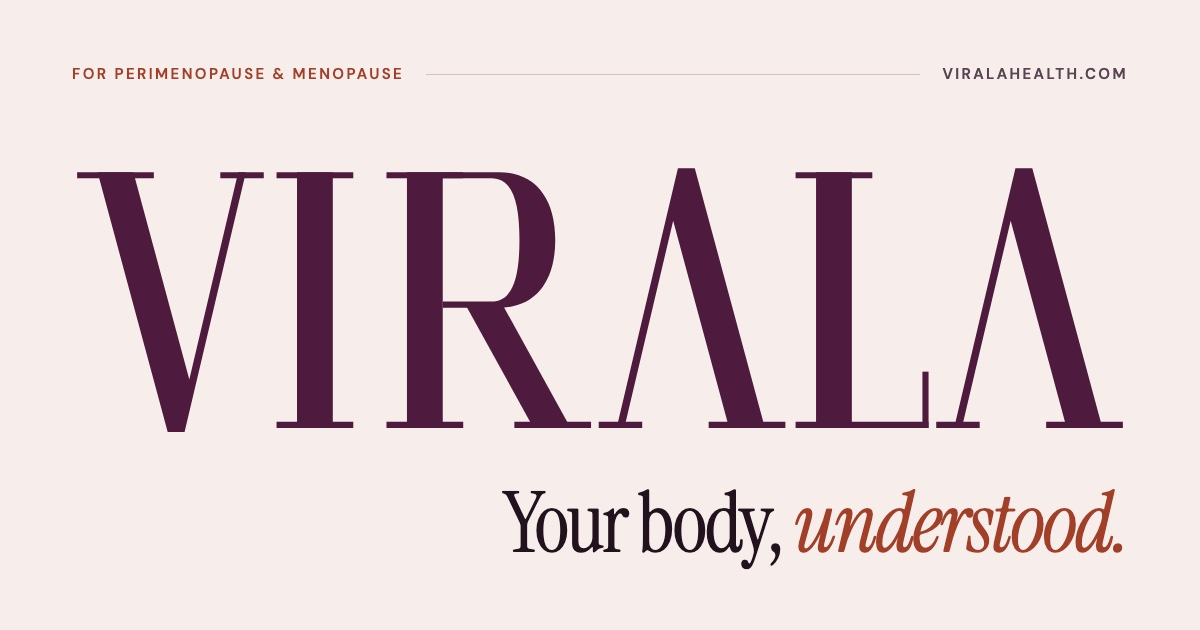
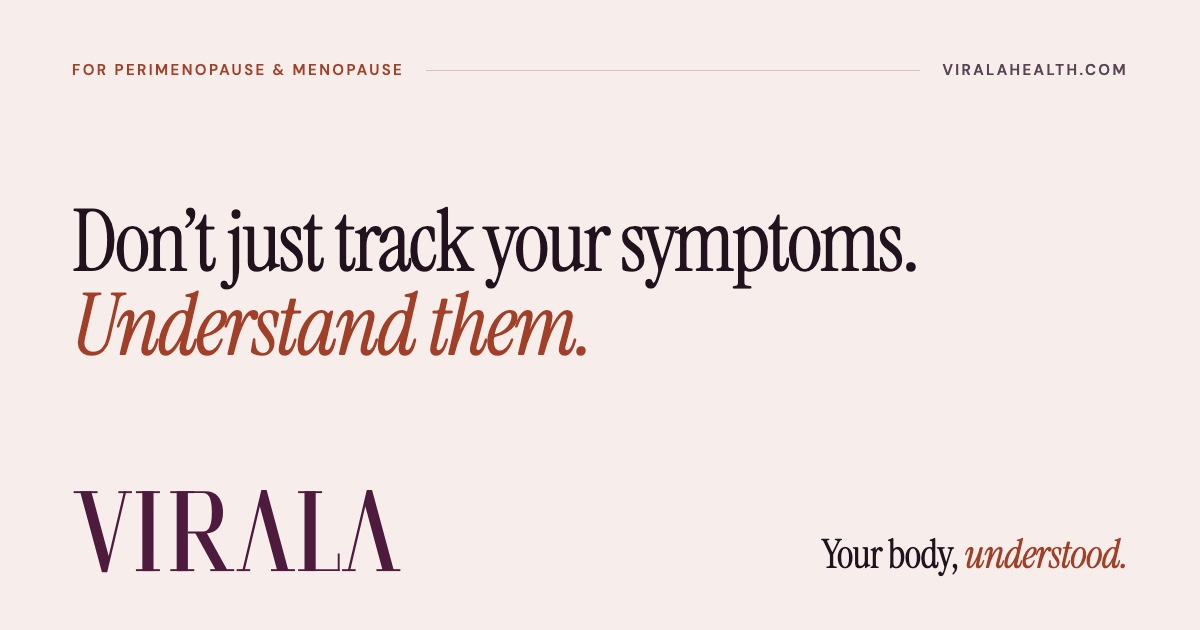
Website: outward positioning 'Don't just track your symptoms. Understand them.' (not deployed; branch only)
Hero under the brand line, meta descriptions, approach section, About intro and social card
aligned; thanks page spam/Promotions line. Everything else unchanged. Built from local
workspace commit 8158fac.

diff --git a/index.html b/index.html
@@ -1,13 +1,13 @@
 <!doctype html>
 <html lang="en"><head><meta charset="utf-8"><meta name="viewport" content="width=device-width,initial-scale=1,viewport-fit=cover">
 <meta name="color-scheme" content="light"><meta name="theme-color" content="#F7EDEA"><script>try{if(localStorage.getItem('virala-theme')==='dark')document.documentElement.dataset.theme='dark'}catch(e){}</script>
-<title>VIRALA — Your body, understood.</title><meta name="description" content="VIRALA is a companion app being made for perimenopause and menopause. It understands, then helps: science-backed explanations and safe, practical steps that grow more personal over time. Join the email list to hear first.">
+<title>VIRALA — Your body, understood.</title><meta name="description" content="Don’t just track your symptoms. Understand them. VIRALA is a companion app being made for perimenopause and menopause: science-backed understanding, concrete help with what to do, and a routine that adapts to what works for you.">
 <meta name="robots" content="index,follow">
 <link rel="canonical" href="https://viralahealth.com/"><link rel="icon" type="image/svg+xml" href="assets/favicon.svg"><link rel="apple-touch-icon" href="assets/apple-touch-icon.png"><link rel="manifest" href="site.webmanifest">
-<meta property="og:type" content="website"><meta property="og:site_name" content="VIRALA"><meta property="og:title" content="VIRALA — Your body, understood."><meta property="og:description" content="VIRALA is a companion app being made for perimenopause and menopause. It understands, then helps: science-backed explanations and safe, practical steps that grow more personal over time. Join the email list to hear first."><meta property="og:url" content="https://viralahealth.com/"><meta property="og:image" content="https://viralahealth.com/assets/social-card.jpg"><meta property="og:image:alt" content="VIRALA. Your body, understood."><meta name="twitter:card" content="summary_large_image">
+<meta property="og:type" content="website"><meta property="og:site_name" content="VIRALA"><meta property="og:title" content="VIRALA — Your body, understood."><meta property="og:description" content="Don’t just track your symptoms. Understand them. VIRALA is a companion app being made for perimenopause and menopause: science-backed understanding, concrete help with what to do, and a routine that adapts to what works for you."><meta property="og:url" content="https://viralahealth.com/"><meta property="og:image" content="https://viralahealth.com/assets/social-card.jpg"><meta property="og:image:alt" content="Don’t just track your symptoms. Understand them. VIRALA: your body, understood."><meta name="twitter:card" content="summary_large_image">
 <link rel="preload" href="assets/instrument-serif.ttf" as="font" type="font/ttf" crossorigin><link rel="preload" href="assets/dm-sans.ttf" as="font" type="font/ttf" crossorigin>
 <link rel="stylesheet" href="styles.css"><script src="app.js" defer></script>
-<script type="application/ld+json">{"@context": "https://schema.org", "@type": "WebPage", "name": "VIRALA — Your body, understood.", "url": "https://viralahealth.com/", "description": "VIRALA is a companion app being made for perimenopause and menopause. It understands, then helps: science-backed explanations and safe, practical steps that grow more personal over time. Join the email list to hear first.", "inLanguage": "en", "isPartOf": {"@type": "WebSite", "name": "VIRALA", "url": "https://viralahealth.com/"}}</script></head>
+<script type="application/ld+json">{"@context": "https://schema.org", "@type": "WebPage", "name": "VIRALA — Your body, understood.", "url": "https://viralahealth.com/", "description": "Don’t just track your symptoms. Understand them. VIRALA is a companion app being made for perimenopause and menopause: science-backed understanding, concrete help with what to do, and a routine that adapts to what works for you.", "inLanguage": "en", "isPartOf": {"@type": "WebSite", "name": "VIRALA", "url": "https://viralahealth.com/"}}</script></head>
 <body class="page-index"><a class="skip" href="#main">Skip to content</a>
 <header class="site-header"><div class="wrap header-inner">
 <a class="brand" href="index.html" aria-label="VIRALA, home"><span class="lockup"><svg class="mark" viewBox="0 0 544 736" aria-hidden="true" focusable="false"><path class="p1" d="M0 48 C60 108 158 132 202 174 C234 204 242 224 242 274 L242 608 C242 665 249 695 272 736 C218 680 122 633 60 595 C20 570 0 537 0 492 Z"/><path class="p2" d="M136 0 C196 51 252 78 322 113 C369 137 390 167 390 220 L390 482 C390 570 368 610 316 661 L276 704 C264 664 268 625 268 588 L268 270 C268 204 233 168 187 142 L136 114 Z"/><path class="p3" d="M416 244 L506 291 C535 307 544 325 544 355 L544 503 C544 540 529 560 495 578 L326 668 C390 602 416 556 416 484 Z"/></svg><svg class="wm" aria-hidden="true" focusable="false" viewBox="-2 -4 422.9 108"><g fill="currentColor"><g transform="translate(0.00 0)"><path d="M8.00 0.00 L23.50 0.00 L44.58 78.06 L63.00 0.00 L68.80 0.00 L44.82 101.60 L35.43 101.60 Z"/><path d="M0.00 0.00 L31.50 0.00 L31.50 5.20 L0.00 5.20 Z"/><path d="M56.00 0.00 L75.80 0.00 L75.80 5.20 L56.00 5.20 Z"/></g><g transform="translate(80.80 0)"><path d="M8.00 0.00 L23.50 0.00 L23.50 100.00 L8.00 100.00 Z"/><path d="M0.00 0.00 L31.50 0.00 L31.50 5.20 L0.00 5.20 Z"/><path d="M0.00 94.80 L31.50 94.80 L31.50 100.00 L0.00 100.00 Z"/></g><g transform="translate(125.30 0)"><path d="M8.00 0.00 L23.50 0.00 L23.50 100.00 L8.00 100.00 Z"/><path d="M23.5 0 L44 0 C58 0 66 10 66 26.5 C66 43 58 53 44 53 L23.5 53 L23.5 47.8 L41 47.8 C49 47.8 52 42 52 26.5 C52 11 49 5.2 41 5.2 L23.5 5.2 Z"/><path d="M31.00 52.00 L45.50 52.00 L72.00 100.00 L57.50 100.00 Z"/><path d="M0.00 0.00 L31.50 0.00 L31.50 5.20 L0.00 5.20 Z"/><path d="M0.00 94.80 L31.50 94.80 L31.50 100.00 L0.00 100.00 Z"/><path d="M50.00 94.80 L80.00 94.80 L80.00 100.00 L50.00 100.00 Z"/></g><g transform="translate(208.30 0)"><path d="M67.80 100.00 L52.30 100.00 L31.22 21.94 L12.80 100.00 L7.00 100.00 L30.98 -1.60 L40.37 -1.60 Z"/><path d="M75.80 100.00 L44.30 100.00 L44.30 94.80 L75.80 94.80 Z"/><path d="M19.80 100.00 L0.00 100.00 L0.00 94.80 L19.80 94.80 Z"/></g><g transform="translate(288.10 0)"><path d="M8.00 0.00 L23.50 0.00 L23.50 100.00 L8.00 100.00 Z"/><path d="M0.00 0.00 L31.50 0.00 L31.50 5.20 L0.00 5.20 Z"/><path d="M0.00 94.80 L52.00 94.80 L52.00 100.00 L0.00 100.00 Z"/><path d="M46.80 100.00 L46.80 78.00 L52.00 78.00 L52.00 100.00 Z"/></g><g transform="translate(343.10 0)"><path d="M67.80 100.00 L52.30 100.00 L31.22 21.94 L12.80 100.00 L7.00 100.00 L30.98 -1.60 L40.37 -1.60 Z"/><path d="M75.80 100.00 L44.30 100.00 L44.30 94.80 L75.80 94.80 Z"/><path d="M19.80 100.00 L0.00 100.00 L0.00 94.80 L19.80 94.80 Z"/></g></g></svg></span></a>
@@ -16,8 +16,9 @@
 </div></header><main id="main"><section class="hero" aria-labelledby="hero-title"><div class="wrap hero-grid">
 <div class="hero-copy">
 <p class="status-pill"><span class="pill-dot" aria-hidden="true"></span>The VIRALA app · in development</p>
-<h1 id="hero-title">Your body, <em>understood.</em></h1>
-<p class="lede">VIRALA is a companion app being made for early perimenopause, perimenopause and menopause, including when you’re not sure which stage you’re in. Share how you are in a quick check-in or in your own words. VIRALA will help you understand what’s happening, then suggest one or two safe, practical things you can do today.</p>
+<p class="brand-line">Your body, <em>understood.</em></p>
+<h1 id="hero-title">Don’t just track your symptoms. <em>Understand them.</em></h1>
+<p class="lede">VIRALA is a companion app being made for early perimenopause, perimenopause and menopause, including when you’re not sure which stage you’re in. Share how you are in a quick check-in or in your own words, and VIRALA will give you science-backed understanding of what’s happening, concrete help with what to do, and a routine that adapts to what works for you.</p>
 <div class="join" id="join"><form class="signup" action="https://app.kit.com/forms/10101242/subscriptions" method="post" accept-charset="UTF-8">
 <label class="signup-label" for="email-top">Be the first to hear when VIRALA is ready</label>
 <div class="signup-row"><input id="email-top" name="email_address" type="email" autocomplete="email" inputmode="email" autocapitalize="off" spellcheck="false" required placeholder="you@example.com" aria-describedby="note-top">
@@ -29,7 +30,7 @@
 <p class="plate-line">Understands,<br><em>then helps.</em></p></div></div>
 </div></section>
 <section class="approach wrap" aria-labelledby="approach-title"><div class="sec-head reveal"><p class="eyebrow">Our approach</p><h2 id="approach-title">Science-backed understanding. <em>Personal support that grows with you.</em></h2>
-<p class="lede">Checking in is the foundation. Understanding comes next, and it never stops there: every explanation will lead to something you can do today. Because VIRALA remembers what you choose to share, and what helped, its support grows more personal over time.</p></div>
+<p class="lede">VIRALA isn’t another symptom tracker. Checking in is only the start: what you share will become science-backed understanding of what’s happening, concrete help with what to do today, and a routine that adapts to what works for you. Because VIRALA remembers what you choose to share, and what helped, its support grows more personal over time.</p></div>
 <ol class="gifts gifts-3"><li class="reveal"><span class="gift-n">01</span><h3>Share it your way</h3><p>A quick check-in when you have a moment, or your own words when there’s more to say. You won’t need the right medical vocabulary.</p></li><li class="reveal"><span class="gift-n">02</span><h3>Understand, then act</h3><p>Every explanation will end in one or two concrete, safe things you can do today, chosen for where you are rather than generic advice.</p></li><li class="reveal"><span class="gift-n">03</span><h3>Support that learns what works</h3><p>VIRALA will remember what you choose to share and what helped, so its support grows more personal over time, and only with your yes.</p></li></ol></section>
 <section class="offer wrap" aria-labelledby="offer-title"><div class="sec-head reveal"><p class="eyebrow">What we’re building</p><h2 id="offer-title">Free to understand and act. <em>More, when you want it.</em></h2></div>
 <div class="offer-grid">

diff --git a/about.html b/about.html
@@ -1,20 +1,20 @@
 <!doctype html>
 <html lang="en"><head><meta charset="utf-8"><meta name="viewport" content="width=device-width,initial-scale=1,viewport-fit=cover">
 <meta name="color-scheme" content="light"><meta name="theme-color" content="#F7EDEA"><script>try{if(localStorage.getItem('virala-theme')==='dark')document.documentElement.dataset.theme='dark'}catch(e){}</script>
-<title>About — VIRALA</title><meta name="description" content="About VIRALA: what we believe, how we write, and answers to common questions. VIRALA understands, then helps.">
+<title>About — VIRALA</title><meta name="description" content="About VIRALA: not another tracker, but science-backed understanding, concrete help and a routine that adapts to you. What we believe, how we write, and common questions.">
 <meta name="robots" content="index,follow">
 <link rel="canonical" href="https://viralahealth.com/about.html"><link rel="icon" type="image/svg+xml" href="assets/favicon.svg"><link rel="apple-touch-icon" href="assets/apple-touch-icon.png"><link rel="manifest" href="site.webmanifest">
-<meta property="og:type" content="website"><meta property="og:site_name" content="VIRALA"><meta property="og:title" content="About — VIRALA"><meta property="og:description" content="About VIRALA: what we believe, how we write, and answers to common questions. VIRALA understands, then helps."><meta property="og:url" content="https://viralahealth.com/about.html"><meta property="og:image" content="https://viralahealth.com/assets/social-card.jpg"><meta property="og:image:alt" content="VIRALA. Your body, understood."><meta name="twitter:card" content="summary_large_image">
+<meta property="og:type" content="website"><meta property="og:site_name" content="VIRALA"><meta property="og:title" content="About — VIRALA"><meta property="og:description" content="About VIRALA: not another tracker, but science-backed understanding, concrete help and a routine that adapts to you. What we believe, how we write, and common questions."><meta property="og:url" content="https://viralahealth.com/about.html"><meta property="og:image" content="https://viralahealth.com/assets/social-card.jpg"><meta property="og:image:alt" content="Don’t just track your symptoms. Understand them. VIRALA: your body, understood."><meta name="twitter:card" content="summary_large_image">
 <link rel="preload" href="assets/instrument-serif.ttf" as="font" type="font/ttf" crossorigin><link rel="preload" href="assets/dm-sans.ttf" as="font" type="font/ttf" crossorigin>
 <link rel="stylesheet" href="styles.css"><script src="app.js" defer></script>
-<script type="application/ld+json">{"@context": "https://schema.org", "@type": "WebPage", "name": "About — VIRALA", "url": "https://viralahealth.com/about.html", "description": "About VIRALA: what we believe, how we write, and answers to common questions. VIRALA understands, then helps.", "inLanguage": "en", "isPartOf": {"@type": "WebSite", "name": "VIRALA", "url": "https://viralahealth.com/"}}</script></head>
+<script type="application/ld+json">{"@context": "https://schema.org", "@type": "WebPage", "name": "About — VIRALA", "url": "https://viralahealth.com/about.html", "description": "About VIRALA: not another tracker, but science-backed understanding, concrete help and a routine that adapts to you. What we believe, how we write, and common questions.", "inLanguage": "en", "isPartOf": {"@type": "WebSite", "name": "VIRALA", "url": "https://viralahealth.com/"}}</script></head>
 <body class="page-about"><a class="skip" href="#main">Skip to content</a>
 <header class="site-header"><div class="wrap header-inner">
 <a class="brand" href="index.html" aria-label="VIRALA, home"><span class="lockup"><svg class="mark" viewBox="0 0 544 736" aria-hidden="true" focusable="false"><path class="p1" d="M0 48 C60 108 158 132 202 174 C234 204 242 224 242 274 L242 608 C242 665 249 695 272 736 C218 680 122 633 60 595 C20 570 0 537 0 492 Z"/><path class="p2" d="M136 0 C196 51 252 78 322 113 C369 137 390 167 390 220 L390 482 C390 570 368 610 316 661 L276 704 C264 664 268 625 268 588 L268 270 C268 204 233 168 187 142 L136 114 Z"/><path class="p3" d="M416 244 L506 291 C535 307 544 325 544 355 L544 503 C544 540 529 560 495 578 L326 668 C390 602 416 556 416 484 Z"/></svg><svg class="wm" aria-hidden="true" focusable="false" viewBox="-2 -4 422.9 108"><g fill="currentColor"><g transform="translate(0.00 0)"><path d="M8.00 0.00 L23.50 0.00 L44.58 78.06 L63.00 0.00 L68.80 0.00 L44.82 101.60 L35.43 101.60 Z"/><path d="M0.00 0.00 L31.50 0.00 L31.50 5.20 L0.00 5.20 Z"/><path d="M56.00 0.00 L75.80 0.00 L75.80 5.20 L56.00 5.20 Z"/></g><g transform="translate(80.80 0)"><path d="M8.00 0.00 L23.50 0.00 L23.50 100.00 L8.00 100.00 Z"/><path d="M0.00 0.00 L31.50 0.00 L31.50 5.20 L0.00 5.20 Z"/><path d="M0.00 94.80 L31.50 94.80 L31.50 100.00 L0.00 100.00 Z"/></g><g transform="translate(125.30 0)"><path d="M8.00 0.00 L23.50 0.00 L23.50 100.00 L8.00 100.00 Z"/><path d="M23.5 0 L44 0 C58 0 66 10 66 26.5 C66 43 58 53 44 53 L23.5 53 L23.5 47.8 L41 47.8 C49 47.8 52 42 52 26.5 C52 11 49 5.2 41 5.2 L23.5 5.2 Z"/><path d="M31.00 52.00 L45.50 52.00 L72.00 100.00 L57.50 100.00 Z"/><path d="M0.00 0.00 L31.50 0.00 L31.50 5.20 L0.00 5.20 Z"/><path d="M0.00 94.80 L31.50 94.80 L31.50 100.00 L0.00 100.00 Z"/><path d="M50.00 94.80 L80.00 94.80 L80.00 100.00 L50.00 100.00 Z"/></g><g transform="translate(208.30 0)"><path d="M67.80 100.00 L52.30 100.00 L31.22 21.94 L12.80 100.00 L7.00 100.00 L30.98 -1.60 L40.37 -1.60 Z"/><path d="M75.80 100.00 L44.30 100.00 L44.30 94.80 L75.80 94.80 Z"/><path d="M19.80 100.00 L0.00 100.00 L0.00 94.80 L19.80 94.80 Z"/></g><g transform="translate(288.10 0)"><path d="M8.00 0.00 L23.50 0.00 L23.50 100.00 L8.00 100.00 Z"/><path d="M0.00 0.00 L31.50 0.00 L31.50 5.20 L0.00 5.20 Z"/><path d="M0.00 94.80 L52.00 94.80 L52.00 100.00 L0.00 100.00 Z"/><path d="M46.80 100.00 L46.80 78.00 L52.00 78.00 L52.00 100.00 Z"/></g><g transform="translate(343.10 0)"><path d="M67.80 100.00 L52.30 100.00 L31.22 21.94 L12.80 100.00 L7.00 100.00 L30.98 -1.60 L40.37 -1.60 Z"/><path d="M75.80 100.00 L44.30 100.00 L44.30 94.80 L75.80 94.80 Z"/><path d="M19.80 100.00 L0.00 100.00 L0.00 94.80 L19.80 94.80 Z"/></g></g></svg></span></a>
 <nav class="main-nav" id="main-nav" aria-label="Main"><a href="vira.html">Meet Vira</a><a href="journal.html">Journal</a><a href="about.html" aria-current="page">About</a><a class="nav-join" href="index.html#join">Join the list</a></nav>
 <div class="header-tools"><button class="theme-toggle" type="button" aria-pressed="false" aria-label="Dark appearance"><svg viewBox="0 0 24 24" aria-hidden="true"><circle cx="12" cy="12" r="8"/><path d="M12 4a8 8 0 0 0 0 16Z"/></svg></button><button class="menu-toggle" type="button" aria-controls="main-nav" aria-expanded="false"><span>Menu</span></button></div>
 </div></header><main id="main"><section class="page-hero wrap"><p class="mh-eyebrow"><span>About VIRALA</span><span class="mh-rule" aria-hidden="true"></span><span>Beliefs · How we write · Questions</span></p><h1>Made to understand you, <em>and to help.</em></h1>
-<p class="lede">VIRALA is being built independently, as a more personal, science-backed way to understand your body through perimenopause and menopause, and to know what to do next.</p></section>
+<p class="lede">VIRALA isn’t another tracker. It’s being built independently to give women science-backed understanding of perimenopause and menopause, concrete help with what to do, and a routine that adapts to what works for them.</p></section>
 <section class="beliefs wrap" id="philosophy" aria-labelledby="beliefs-title"><div class="beliefs-head reveal"><p class="eyebrow">What we believe</p><h2 id="beliefs-title">Understanding is the point.<br><em>Help is the outcome.</em></h2>
 <p class="pull">VIRALA should give back more than it asks of you — no perfect tracking, no guilt for gaps.</p></div>
 <ol class="gifts gifts-2 reveal"><li><span class="gift-n">01</span><h3>Heard, including the detail.</h3><p>You should be understood from what you actually say: the detail, not just a symptom keyword. A restless night, a hard week and a question you can’t quite phrase all count.</p></li><li><span class="gift-n">02</span><h3>Honest about what science can explain.</h3><p>Science-backed means showing what reliable evidence can and can’t tell you, and considering other possibilities instead of blaming everything on hormones.</p></li><li><span class="gift-n">03</span><h3>Understanding that leads somewhere.</h3><p>Small, feasible next steps you choose, shaped by what you’ve already tried and what fits your real life.</p></li><li><span class="gift-n">04</span><h3>Remembered, under your control.</h3><p>What you’ve confirmed, tried, rejected and changed, kept only as you allow, and always yours to correct or delete.</p></li></ol></section>

diff --git a/thanks.html b/thanks.html
@@ -4,7 +4,7 @@
 <title>One last step — VIRALA</title><meta name="description" content="Thank you for joining the VIRALA email list. Please confirm your address from the email we’ve sent you.">
 <meta name="robots" content="noindex,follow">
 <link rel="canonical" href="https://viralahealth.com/thanks.html"><link rel="icon" type="image/svg+xml" href="assets/favicon.svg"><link rel="apple-touch-icon" href="assets/apple-touch-icon.png"><link rel="manifest" href="site.webmanifest">
-<meta property="og:type" content="website"><meta property="og:site_name" content="VIRALA"><meta property="og:title" content="One last step — VIRALA"><meta property="og:description" content="Thank you for joining the VIRALA email list. Please confirm your address from the email we’ve sent you."><meta property="og:url" content="https://viralahealth.com/thanks.html"><meta property="og:image" content="https://viralahealth.com/assets/social-card.jpg"><meta property="og:image:alt" content="VIRALA. Your body, understood."><meta name="twitter:card" content="summary_large_image">
+<meta property="og:type" content="website"><meta property="og:site_name" content="VIRALA"><meta property="og:title" content="One last step — VIRALA"><meta property="og:description" content="Thank you for joining the VIRALA email list. Please confirm your address from the email we’ve sent you."><meta property="og:url" content="https://viralahealth.com/thanks.html"><meta property="og:image" content="https://viralahealth.com/assets/social-card.jpg"><meta property="og:image:alt" content="Don’t just track your symptoms. Understand them. VIRALA: your body, understood."><meta name="twitter:card" content="summary_large_image">
 <link rel="preload" href="assets/instrument-serif.ttf" as="font" type="font/ttf" crossorigin><link rel="preload" href="assets/dm-sans.ttf" as="font" type="font/ttf" crossorigin>
 <link rel="stylesheet" href="styles.css"><script src="app.js" defer></script>
 <script type="application/ld+json">{"@context": "https://schema.org", "@type": "WebPage", "name": "One last step — VIRALA", "url": "https://viralahealth.com/thanks.html", "description": "Thank you for joining the VIRALA email list. Please confirm your address from the email we’ve sent you.", "inLanguage": "en", "isPartOf": {"@type": "WebSite", "name": "VIRALA", "url": "https://viralahealth.com/"}}</script></head>
@@ -15,7 +15,7 @@
 <div class="header-tools"><button class="theme-toggle" type="button" aria-pressed="false" aria-label="Dark appearance"><svg viewBox="0 0 24 24" aria-hidden="true"><circle cx="12" cy="12" r="8"/><path d="M12 4a8 8 0 0 0 0 16Z"/></svg></button><button class="menu-toggle" type="button" aria-controls="main-nav" aria-expanded="false"><span>Menu</span></button></div>
 </div></header><main id="main"><section class="thanks wrap" aria-labelledby="thanks-title"><svg class="mark mark-thanks" viewBox="0 0 544 736" aria-hidden="true" focusable="false"><path class="p1" d="M0 48 C60 108 158 132 202 174 C234 204 242 224 242 274 L242 608 C242 665 249 695 272 736 C218 680 122 633 60 595 C20 570 0 537 0 492 Z"/><path class="p2" d="M136 0 C196 51 252 78 322 113 C369 137 390 167 390 220 L390 482 C390 570 368 610 316 661 L276 704 C264 664 268 625 268 588 L268 270 C268 204 233 168 187 142 L136 114 Z"/><path class="p3" d="M416 244 L506 291 C535 307 544 325 544 355 L544 503 C544 540 529 560 495 578 L326 668 C390 602 416 556 416 484 Z"/></svg>
 <h1 id="thanks-title">One last <em>step.</em></h1>
-<p class="lede">Check your inbox and confirm your address, and you’re on the list. Can’t find it? Look in spam or promotions.</p>
+<p class="lede">Check your inbox and confirm your address, and you’re on the list. Can’t find it? Check your spam folder, or the Promotions tab if you use Gmail.</p>
 <div class="thanks-ig"><p class="eyebrow">While you wait</p><h2>Follow the journey <em>on Instagram.</em></h2>
 <p>Notes from the making of VIRALA, and a closer look at what we’re building.</p>
 <a class="button button-ig" href="https://www.instagram.com/viralahealth/" rel="noopener noreferrer"><svg class="ig" viewBox="0 0 24 24" aria-hidden="true" focusable="false"><rect x="3" y="3" width="18" height="18" rx="5.5"/><circle cx="12" cy="12" r="4.2"/><circle cx="17.4" cy="6.6" r="1.1" class="ig-dot"/></svg><span>Follow @viralahealth</span> <span class="arrow" aria-hidden="true">↗</span><span class="visually-hidden"> (opens Instagram)</span></a></div>

diff --git a/vira.html b/vira.html
@@ -4,7 +4,7 @@
 <title>Meet Vira — VIRALA</title><meta name="description" content="Vira will be the personal AI companion inside VIRALA Premium, in development. She understands, then helps: safe, practical steps for today and support that adapts over time.">
 <meta name="robots" content="index,follow">
 <link rel="canonical" href="https://viralahealth.com/vira.html"><link rel="icon" type="image/svg+xml" href="assets/favicon.svg"><link rel="apple-touch-icon" href="assets/apple-touch-icon.png"><link rel="manifest" href="site.webmanifest">
-<meta property="og:type" content="website"><meta property="og:site_name" content="VIRALA"><meta property="og:title" content="Meet Vira — VIRALA"><meta property="og:description" content="Vira will be the personal AI companion inside VIRALA Premium, in development. She understands, then helps: safe, practical steps for today and support that adapts over time."><meta property="og:url" content="https://viralahealth.com/vira.html"><meta property="og:image" content="https://viralahealth.com/assets/social-card.jpg"><meta property="og:image:alt" content="VIRALA. Your body, understood."><meta name="twitter:card" content="summary_large_image">
+<meta property="og:type" content="website"><meta property="og:site_name" content="VIRALA"><meta property="og:title" content="Meet Vira — VIRALA"><meta property="og:description" content="Vira will be the personal AI companion inside VIRALA Premium, in development. She understands, then helps: safe, practical steps for today and support that adapts over time."><meta property="og:url" content="https://viralahealth.com/vira.html"><meta property="og:image" content="https://viralahealth.com/assets/social-card.jpg"><meta property="og:image:alt" content="Don’t just track your symptoms. Understand them. VIRALA: your body, understood."><meta name="twitter:card" content="summary_large_image">
 <link rel="preload" href="assets/instrument-serif.ttf" as="font" type="font/ttf" crossorigin><link rel="preload" href="assets/dm-sans.ttf" as="font" type="font/ttf" crossorigin>
 <link rel="stylesheet" href="styles.css"><script src="app.js" defer></script>
 <script type="application/ld+json">{"@context": "https://schema.org", "@type": "WebPage", "name": "Meet Vira — VIRALA", "url": "https://viralahealth.com/vira.html", "description": "Vira will be the personal AI companion inside VIRALA Premium, in development. She understands, then helps: safe, practical steps for today and support that adapts over time.", "inLanguage": "en", "isPartOf": {"@type": "WebSite", "name": "VIRALA", "url": "https://viralahealth.com/"}}</script></head>

diff --git a/journal.html b/journal.html
@@ -4,7 +4,7 @@
 <title>The Journal — VIRALA</title><meta name="description" content="Science-backed reading about perimenopause and menopause that helps you understand what’s happening and what you can do about it.">
 <meta name="robots" content="index,follow">
 <link rel="canonical" href="https://viralahealth.com/journal.html"><link rel="icon" type="image/svg+xml" href="assets/favicon.svg"><link rel="apple-touch-icon" href="assets/apple-touch-icon.png"><link rel="manifest" href="site.webmanifest">
-<meta property="og:type" content="website"><meta property="og:site_name" content="VIRALA"><meta property="og:title" content="The Journal — VIRALA"><meta property="og:description" content="Science-backed reading about perimenopause and menopause that helps you understand what’s happening and what you can do about it."><meta property="og:url" content="https://viralahealth.com/journal.html"><meta property="og:image" content="https://viralahealth.com/assets/social-card.jpg"><meta property="og:image:alt" content="VIRALA. Your body, understood."><meta name="twitter:card" content="summary_large_image">
+<meta property="og:type" content="website"><meta property="og:site_name" content="VIRALA"><meta property="og:title" content="The Journal — VIRALA"><meta property="og:description" content="Science-backed reading about perimenopause and menopause that helps you understand what’s happening and what you can do about it."><meta property="og:url" content="https://viralahealth.com/journal.html"><meta property="og:image" content="https://viralahealth.com/assets/social-card.jpg"><meta property="og:image:alt" content="Don’t just track your symptoms. Understand them. VIRALA: your body, understood."><meta name="twitter:card" content="summary_large_image">
 <link rel="preload" href="assets/instrument-serif.ttf" as="font" type="font/ttf" crossorigin><link rel="preload" href="assets/dm-sans.ttf" as="font" type="font/ttf" crossorigin>
 <link rel="stylesheet" href="styles.css"><script src="app.js" defer></script>
 <script type="application/ld+json">{"@context": "https://schema.org", "@type": "WebPage", "name": "The Journal — VIRALA", "url": "https://viralahealth.com/journal.html", "description": "Science-backed reading about perimenopause and menopause that helps you understand what’s happening and what you can do about it.", "inLanguage": "en", "isPartOf": {"@type": "WebSite", "name": "VIRALA", "url": "https://viralahealth.com/"}}</script></head>

diff --git a/welcome.html b/welcome.html
@@ -4,7 +4,7 @@
 <title>You’re on the list — VIRALA</title><meta name="description" content="Your email address is confirmed. Thank you for joining the VIRALA email list.">
 <meta name="robots" content="noindex,follow">
 <link rel="canonical" href="https://viralahealth.com/welcome.html"><link rel="icon" type="image/svg+xml" href="assets/favicon.svg"><link rel="apple-touch-icon" href="assets/apple-touch-icon.png"><link rel="manifest" href="site.webmanifest">
-<meta property="og:type" content="website"><meta property="og:site_name" content="VIRALA"><meta property="og:title" content="You’re on the list — VIRALA"><meta property="og:description" content="Your email address is confirmed. Thank you for joining the VIRALA email list."><meta property="og:url" content="https://viralahealth.com/welcome.html"><meta property="og:image" content="https://viralahealth.com/assets/social-card.jpg"><meta property="og:image:alt" content="VIRALA. Your body, understood."><meta name="twitter:card" content="summary_large_image">
+<meta property="og:type" content="website"><meta property="og:site_name" content="VIRALA"><meta property="og:title" content="You’re on the list — VIRALA"><meta property="og:description" content="Your email address is confirmed. Thank you for joining the VIRALA email list."><meta property="og:url" content="https://viralahealth.com/welcome.html"><meta property="og:image" content="https://viralahealth.com/assets/social-card.jpg"><meta property="og:image:alt" content="Don’t just track your symptoms. Understand them. VIRALA: your body, understood."><meta name="twitter:card" content="summary_large_image">
 <link rel="preload" href="assets/instrument-serif.ttf" as="font" type="font/ttf" crossorigin><link rel="preload" href="assets/dm-sans.ttf" as="font" type="font/ttf" crossorigin>
 <link rel="stylesheet" href="styles.css"><script src="app.js" defer></script>
 <script type="application/ld+json">{"@context": "https://schema.org", "@type": "WebPage", "name": "You’re on the list — VIRALA", "url": "https://viralahealth.com/welcome.html", "description": "Your email address is confirmed. Thank you for joining the VIRALA email list.", "inLanguage": "en", "isPartOf": {"@type": "WebSite", "name": "VIRALA", "url": "https://viralahealth.com/"}}</script></head>

diff --git a/circle.html b/circle.html
@@ -4,7 +4,7 @@
 <title>Join the list — VIRALA</title><meta name="description" content="News from VIRALA now arrives by email. Join the list on our homepage.">
 <meta name="robots" content="noindex,follow"><meta http-equiv="refresh" content="0; url=index.html#join">
 <link rel="canonical" href="https://viralahealth.com/circle.html"><link rel="icon" type="image/svg+xml" href="assets/favicon.svg"><link rel="apple-touch-icon" href="assets/apple-touch-icon.png"><link rel="manifest" href="site.webmanifest">
-<meta property="og:type" content="website"><meta property="og:site_name" content="VIRALA"><meta property="og:title" content="Join the list — VIRALA"><meta property="og:description" content="News from VIRALA now arrives by email. Join the list on our homepage."><meta property="og:url" content="https://viralahealth.com/circle.html"><meta property="og:image" content="https://viralahealth.com/assets/social-card.jpg"><meta property="og:image:alt" content="VIRALA. Your body, understood."><meta name="twitter:card" content="summary_large_image">
+<meta property="og:type" content="website"><meta property="og:site_name" content="VIRALA"><meta property="og:title" content="Join the list — VIRALA"><meta property="og:description" content="News from VIRALA now arrives by email. Join the list on our homepage."><meta property="og:url" content="https://viralahealth.com/circle.html"><meta property="og:image" content="https://viralahealth.com/assets/social-card.jpg"><meta property="og:image:alt" content="Don’t just track your symptoms. Understand them. VIRALA: your body, understood."><meta name="twitter:card" content="summary_large_image">
 <link rel="preload" href="assets/instrument-serif.ttf" as="font" type="font/ttf" crossorigin><link rel="preload" href="assets/dm-sans.ttf" as="font" type="font/ttf" crossorigin>
 <link rel="stylesheet" href="styles.css"><script src="app.js" defer></script>
 <script type="application/ld+json">{"@context": "https://schema.org", "@type": "WebPage", "name": "Join the list — VIRALA", "url": "https://viralahealth.com/circle.html", "description": "News from VIRALA now arrives by email. Join the list on our homepage.", "inLanguage": "en", "isPartOf": {"@type": "WebSite", "name": "VIRALA", "url": "https://viralahealth.com/"}}</script></head>

diff --git a/privacy.html b/privacy.html
@@ -4,7 +4,7 @@
 <title>Privacy — VIRALA</title><meta name="description" content="How VIRALA handles your information on viralahealth.com and on our email list.">
 <meta name="robots" content="index,follow">
 <link rel="canonical" href="https://viralahealth.com/privacy.html"><link rel="icon" type="image/svg+xml" href="assets/favicon.svg"><link rel="apple-touch-icon" href="assets/apple-touch-icon.png"><link rel="manifest" href="site.webmanifest">
-<meta property="og:type" content="website"><meta property="og:site_name" content="VIRALA"><meta property="og:title" content="Privacy — VIRALA"><meta property="og:description" content="How VIRALA handles your information on viralahealth.com and on our email list."><meta property="og:url" content="https://viralahealth.com/privacy.html"><meta property="og:image" content="https://viralahealth.com/assets/social-card.jpg"><meta property="og:image:alt" content="VIRALA. Your body, understood."><meta name="twitter:card" content="summary_large_image">
+<meta property="og:type" content="website"><meta property="og:site_name" content="VIRALA"><meta property="og:title" content="Privacy — VIRALA"><meta property="og:description" content="How VIRALA handles your information on viralahealth.com and on our email list."><meta property="og:url" content="https://viralahealth.com/privacy.html"><meta property="og:image" content="https://viralahealth.com/assets/social-card.jpg"><meta property="og:image:alt" content="Don’t just track your symptoms. Understand them. VIRALA: your body, understood."><meta name="twitter:card" content="summary_large_image">
 <link rel="preload" href="assets/instrument-serif.ttf" as="font" type="font/ttf" crossorigin><link rel="preload" href="assets/dm-sans.ttf" as="font" type="font/ttf" crossorigin>
 <link rel="stylesheet" href="styles.css"><script src="app.js" defer></script>
 <script type="application/ld+json">{"@context": "https://schema.org", "@type": "WebPage", "name": "Privacy — VIRALA", "url": "https://viralahealth.com/privacy.html", "description": "How VIRALA handles your information on viralahealth.com and on our email list.", "inLanguage": "en", "isPartOf": {"@type": "WebSite", "name": "VIRALA", "url": "https://viralahealth.com/"}}</script></head>

diff --git a/philosophy.html b/philosophy.html
@@ -4,7 +4,7 @@
 <title>What we believe — VIRALA</title><meta name="description" content="What we believe now lives on the About page.">
 <meta name="robots" content="noindex,follow"><meta http-equiv="refresh" content="0; url=about.html#philosophy">
 <link rel="canonical" href="https://viralahealth.com/philosophy.html"><link rel="icon" type="image/svg+xml" href="assets/favicon.svg"><link rel="apple-touch-icon" href="assets/apple-touch-icon.png"><link rel="manifest" href="site.webmanifest">
-<meta property="og:type" content="website"><meta property="og:site_name" content="VIRALA"><meta property="og:title" content="What we believe — VIRALA"><meta property="og:description" content="What we believe now lives on the About page."><meta property="og:url" content="https://viralahealth.com/philosophy.html"><meta property="og:image" content="https://viralahealth.com/assets/social-card.jpg"><meta property="og:image:alt" content="VIRALA. Your body, understood."><meta name="twitter:card" content="summary_large_image">
+<meta property="og:type" content="website"><meta property="og:site_name" content="VIRALA"><meta property="og:title" content="What we believe — VIRALA"><meta property="og:description" content="What we believe now lives on the About page."><meta property="og:url" content="https://viralahealth.com/philosophy.html"><meta property="og:image" content="https://viralahealth.com/assets/social-card.jpg"><meta property="og:image:alt" content="Don’t just track your symptoms. Understand them. VIRALA: your body, understood."><meta name="twitter:card" content="summary_large_image">
 <link rel="preload" href="assets/instrument-serif.ttf" as="font" type="font/ttf" crossorigin><link rel="preload" href="assets/dm-sans.ttf" as="font" type="font/ttf" crossorigin>
 <link rel="stylesheet" href="styles.css"><script src="app.js" defer></script>
 <script type="application/ld+json">{"@context": "https://schema.org", "@type": "WebPage", "name": "What we believe — VIRALA", "url": "https://viralahealth.com/philosophy.html", "description": "What we believe now lives on the About page.", "inLanguage": "en", "isPartOf": {"@type": "WebSite", "name": "VIRALA", "url": "https://viralahealth.com/"}}</script></head>

diff --git a/404.html b/404.html
@@ -4,7 +4,7 @@
 <title>Page not found — VIRALA</title><meta name="description" content="This page could not be found. Find your way back to VIRALA.">
 <meta name="robots" content="noindex,follow">
 <link rel="canonical" href="https://viralahealth.com/404.html"><link rel="icon" type="image/svg+xml" href="/assets/favicon.svg"><link rel="apple-touch-icon" href="/assets/apple-touch-icon.png"><link rel="manifest" href="/site.webmanifest">
-<meta property="og:type" content="website"><meta property="og:site_name" content="VIRALA"><meta property="og:title" content="Page not found — VIRALA"><meta property="og:description" content="This page could not be found. Find your way back to VIRALA."><meta property="og:url" content="https://viralahealth.com/404.html"><meta property="og:image" content="https://viralahealth.com/assets/social-card.jpg"><meta property="og:image:alt" content="VIRALA. Your body, understood."><meta name="twitter:card" content="summary_large_image">
+<meta property="og:type" content="website"><meta property="og:site_name" content="VIRALA"><meta property="og:title" content="Page not found — VIRALA"><meta property="og:description" content="This page could not be found. Find your way back to VIRALA."><meta property="og:url" content="https://viralahealth.com/404.html"><meta property="og:image" content="https://viralahealth.com/assets/social-card.jpg"><meta property="og:image:alt" content="Don’t just track your symptoms. Understand them. VIRALA: your body, understood."><meta name="twitter:card" content="summary_large_image">
 <link rel="preload" href="/assets/instrument-serif.ttf" as="font" type="font/ttf" crossorigin><link rel="preload" href="/assets/dm-sans.ttf" as="font" type="font/ttf" crossorigin>
 <link rel="stylesheet" href="/styles.css"><script src="/app.js" defer></script>
 <script type="application/ld+json">{"@context": "https://schema.org", "@type": "WebPage", "name": "Page not found — VIRALA", "url": "https://viralahealth.com/404.html", "description": "This page could not be found. Find your way back to VIRALA.", "inLanguage": "en", "isPartOf": {"@type": "WebSite", "name": "VIRALA", "url": "https://viralahealth.com/"}}</script></head>

diff --git a/styles.css b/styles.css
@@ -420,3 +420,4 @@ html:not(.js-ready) .filter{display:none}
 .help-list li{position:relative;padding-left:1.4em;max-width:62ch}
 .help-list li::before{content:"";position:absolute;left:.2em;top:.62em;width:.45em;height:.45em;border-radius:50%;background:var(--clay)}
 .article-body .help-list+p{margin-top:1.1em}
+.brand-line{font:400 clamp(1.25rem,1.1rem + .6vw,1.6rem)/1.1 var(--serif);letter-spacing:-.01em;margin-bottom:clamp(10px,1.2vw,16px)}.brand-line em{color:var(--accent)}
